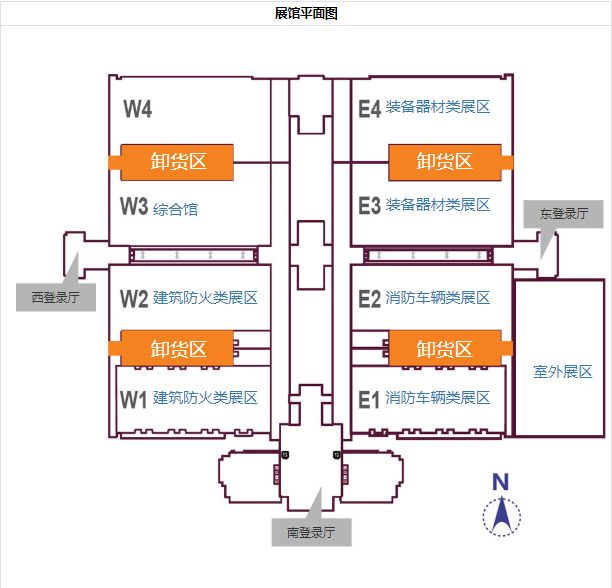
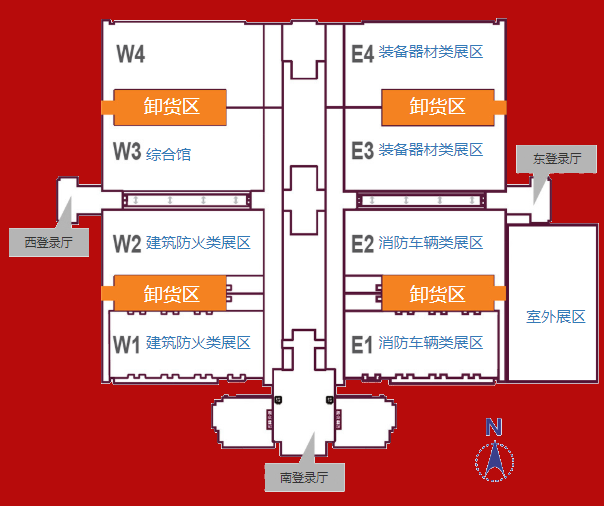
漂浮广告

diff --git a/templates/prediction/exhprediction_confirm.html b/templates/prediction/exhprediction_confirm.html
@@ -11,7 +11,7 @@
         position: absolute;
         left: 50px;
         top: 60px;
-        
+        animation: change 1s  ease-in  infinite ;
     }
 
     .adClose {
@@ -39,7 +39,7 @@
         width: 180px;
         height: 180px;
         border-radius: 5px;
-        border: 2px solid salmon;
+        border: 2px solid #b70b0b;
         position: absolute;
         z-index: 999;
         cursor: pointer;
@@ -49,10 +49,18 @@
         font-weight: bolder;
         text-align: center;
         position: absolute;
-        top:-35px;
-        left: 47px;
+        top:-55px;
+        left:30px;
         z-index: 999;
+        color:#b70b0b;
+        
     }
+
+     /* @keyframes change {
+            0%{ text-shadow: 0 0 4px #f00}
+            50%{ text-shadow: 0 0 40px #f00}
+            100%{ text-shadow: 0 0 4px #f00}
+        } */
 </style>
 
 <body class="fw f14 main-index-body">
@@ -368,7 +376,7 @@
     <div id="imgDiv" class="adDiv">
         <div id="a" class="adClose">×</div>
         <div class="adImgDiv">
-            <h4 class="adTitle">展馆展位选择</h4>
+            <h3 class="adTitle">展馆展位选择</h3>
             <img id="action" class="adImg" src="/static/images/plan/zgpmt.png" alt="展馆平面图选择" />
         </div>
     </div>
@@ -381,7 +389,7 @@
         var xin = true,
             yin = true;
         var step = 1;
-        var delay = 10;
+        var delay = 30;
         var $obj;
         $(function() {
             $obj = $("#imgDiv");
@@ -398,7 +406,7 @@
             var left = $obj.offset().left;
             var top = $obj.offset().top;
             var L =  0; //左边界
-            var T = 80;//顶部边界
+            var T = 85;//顶部边界
             var R = $(window).width() - $obj.width(); // 右边界
             var B = $(window).height() - $obj.height(); //下边界
             if (left < L) {
